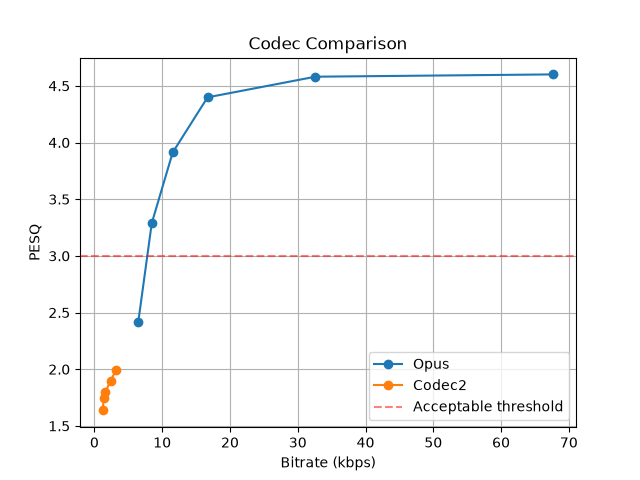
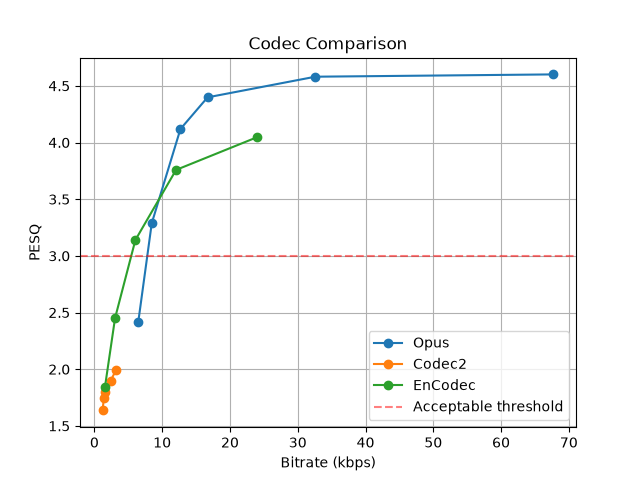
feat (acodecs): add encodec for benchmarking

diff --git a/benchmark/acodecs/encodec_codec.py b/benchmark/acodecs/encodec_codec.py
@@ -1,0 +1,21 @@
+import subprocess
+
+def encode(original_path, compressed_path, bitrate):
+    return subprocess.run(["encodec", "-b", str(bitrate), original_path, compressed_path])
+
+def decode(compressed_path, decoded_path, bitrate=None):
+    return subprocess.run(["encodec", compressed_path, decoded_path])
+
+if __name__ == "__main__":
+    import sys
+
+    if len(sys.argv) == 4:
+        source = sys.argv[1]
+        output = sys.argv[2]
+        bitrate = sys.argv[3]
+        encode(source, output, bitrate)
+
+    elif len(sys.argv) == 3:
+        source = sys.argv[1]
+        output = sys.argv[2]
+        decode(source, output)

diff --git a/benchmark/run.py b/benchmark/run.py
@@ -1,5 +1,6 @@
 from acodecs.opus_codec import encode as opus_encode, decode as opus_decode
 from acodecs.codec2_codec import encode as codec2_encode, decode as codec2_decode
+import acodecs.encodec_codec as encodec
 from audio_io import get_audio_info
 from mesure import calc_bitrate, calc_pesq
 import matplotlib.pyplot as plt 
@@ -20,6 +21,12 @@ codecs = {
         "extension": "c2",
         "encode": codec2_encode,
         "decode": codec2_decode
+    },
+    "EnCodec": {
+        "bitrates": [1.5, 3, 6, 12, 24],
+        "extension": "ecdc",
+        "encode": encodec.encode,
+        "decode": encodec.decode
     }
 }
 
@@ -27,7 +34,7 @@ codecs = {
 def run():
     all_results = {}
     for codec, props in codecs.items():
-        bitrates, extension = props['bitrates'], props['extension']
+        bitrates = props['bitrates']
 
         plot_scale_x = []
         plot_scale_y = []
@@ -61,7 +68,9 @@ def benchmark_codec(codec_name, bitrate, props):
     decoded_path = f"{encoding_path}/{codec_name}_{bitrate}_decoded.wav"
 
     encoder(ORIGINAL_AUDIO, compressed_path, bitrate)
-    decoder(compressed_path, decoded_path, bitrate) # passing bitrate to the decoder also, because some decoders like codec2 do not produce headers with the compressed output
+    # passing bitrate to the decoder also, because some decoders 
+    # like codec2 do not produce headers with the compressed output
+    decoder(compressed_path, decoded_path, bitrate)
 
     # used original audio to bypass some encoders does not produce
     # a playable format for computing the audio duration (like in the codec2 case)